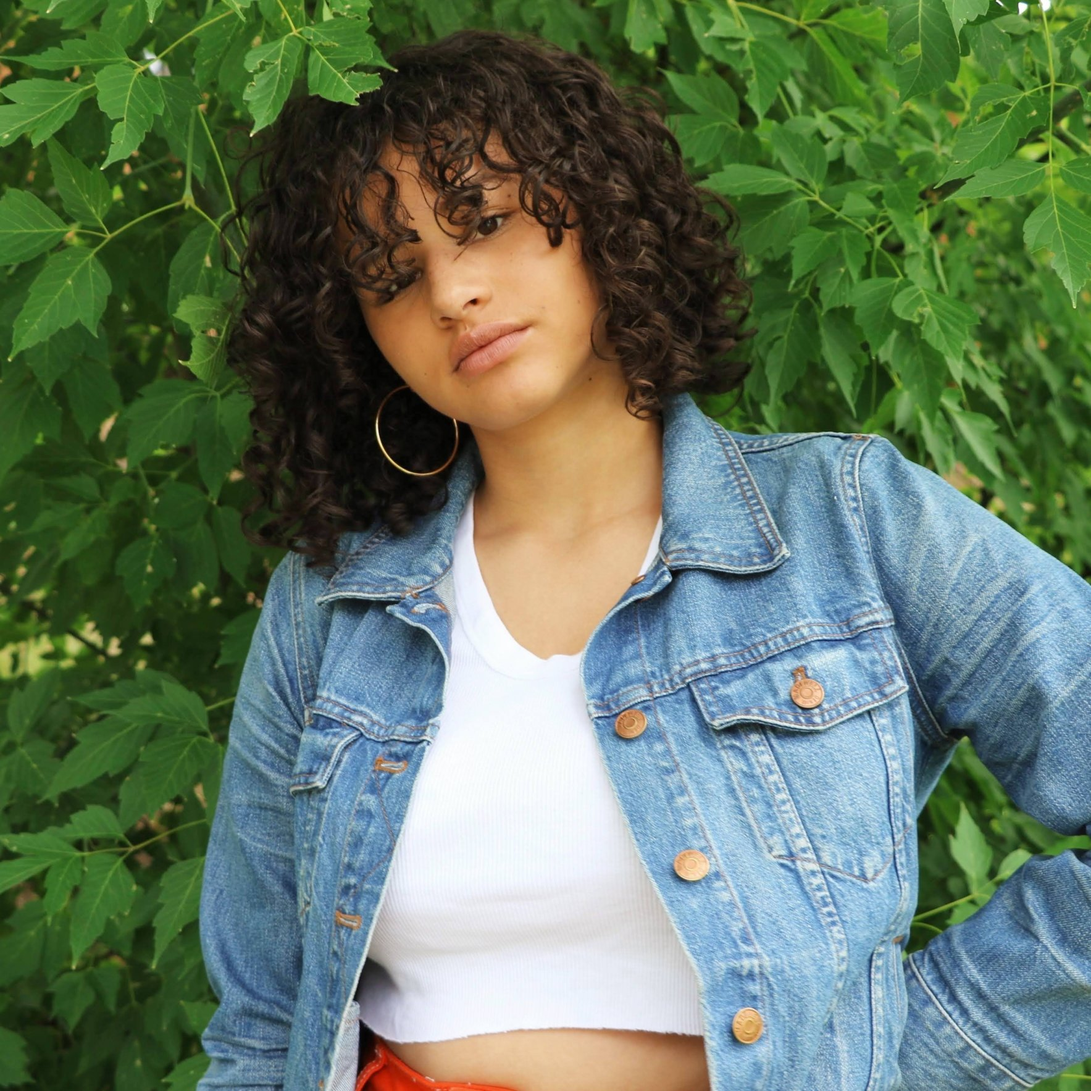
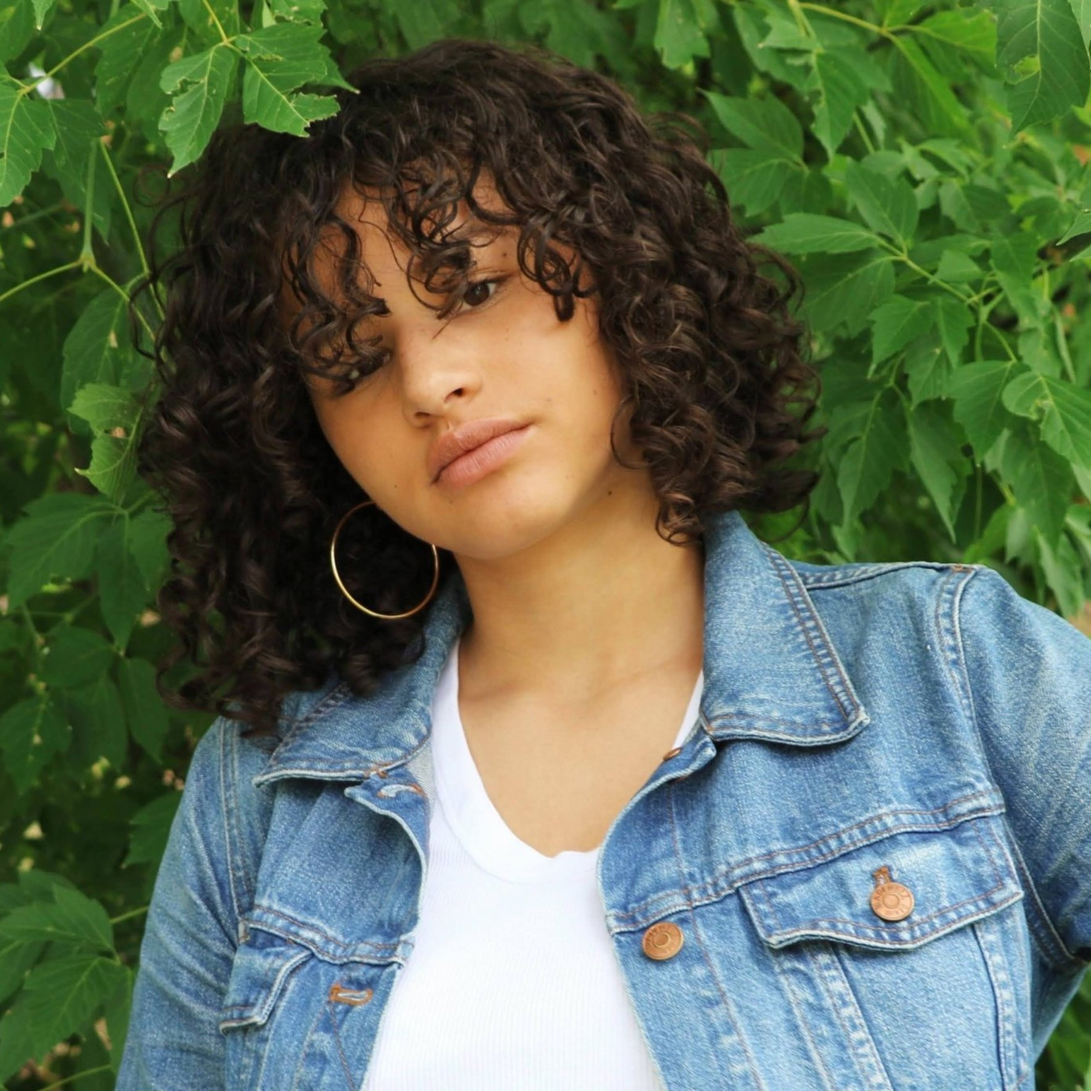
Update players.html
Added Will, changed Zoe's picture

diff --git a/players.html b/players.html
@@ -105,6 +105,12 @@
 								</header>
 							</article>
 							<article class="col-4 col-12-mobile special">
+								<img class="image featured" src="images/players/will.jpg" alt="" />
+								<header>
+									<h3>Will Gonzalez, '24</h3>
+								</header>
+							</article>
+							<article class="col-4 col-12-mobile special">
 								<img class="image featured" src="images/players/zoe.jpg" alt="" />
 								<header>
 									<h3>Zoe Colfax, '25</h3>
